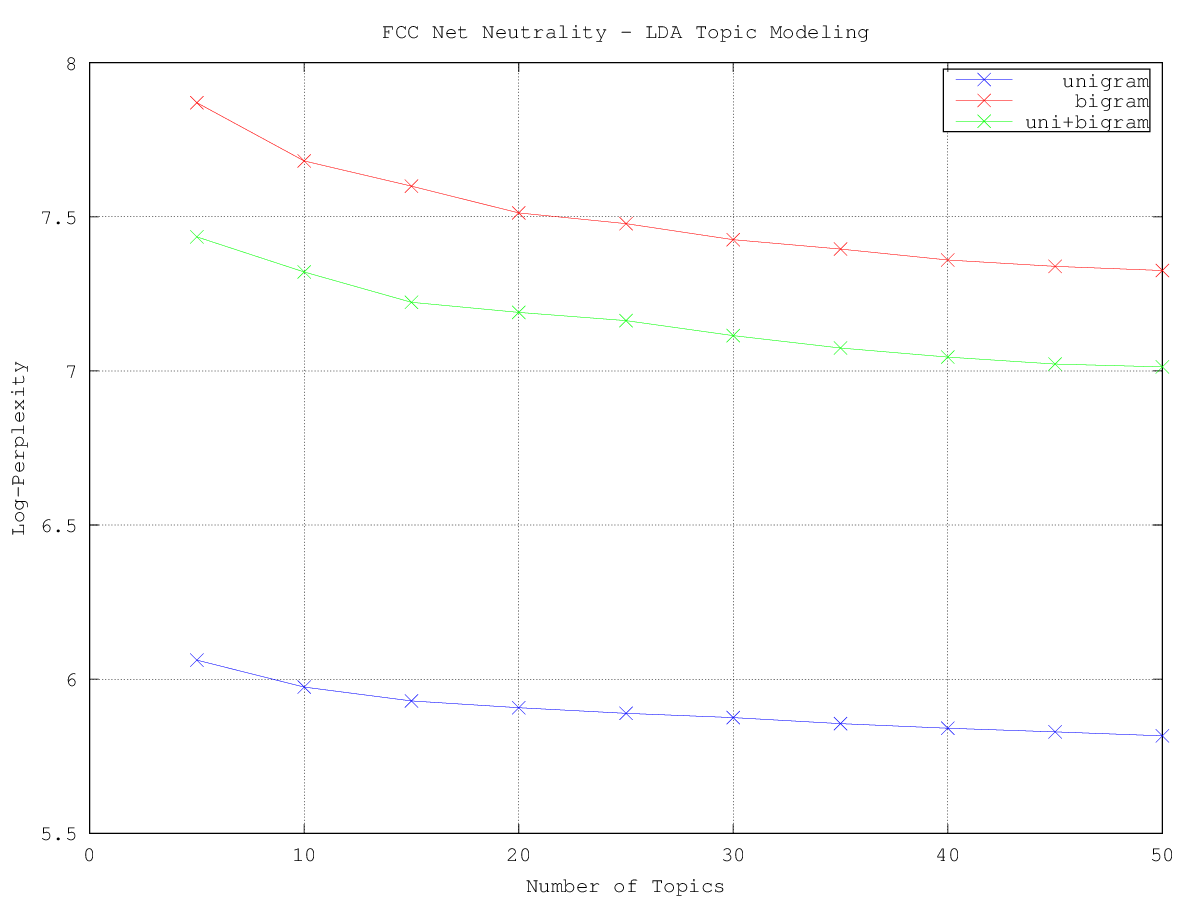
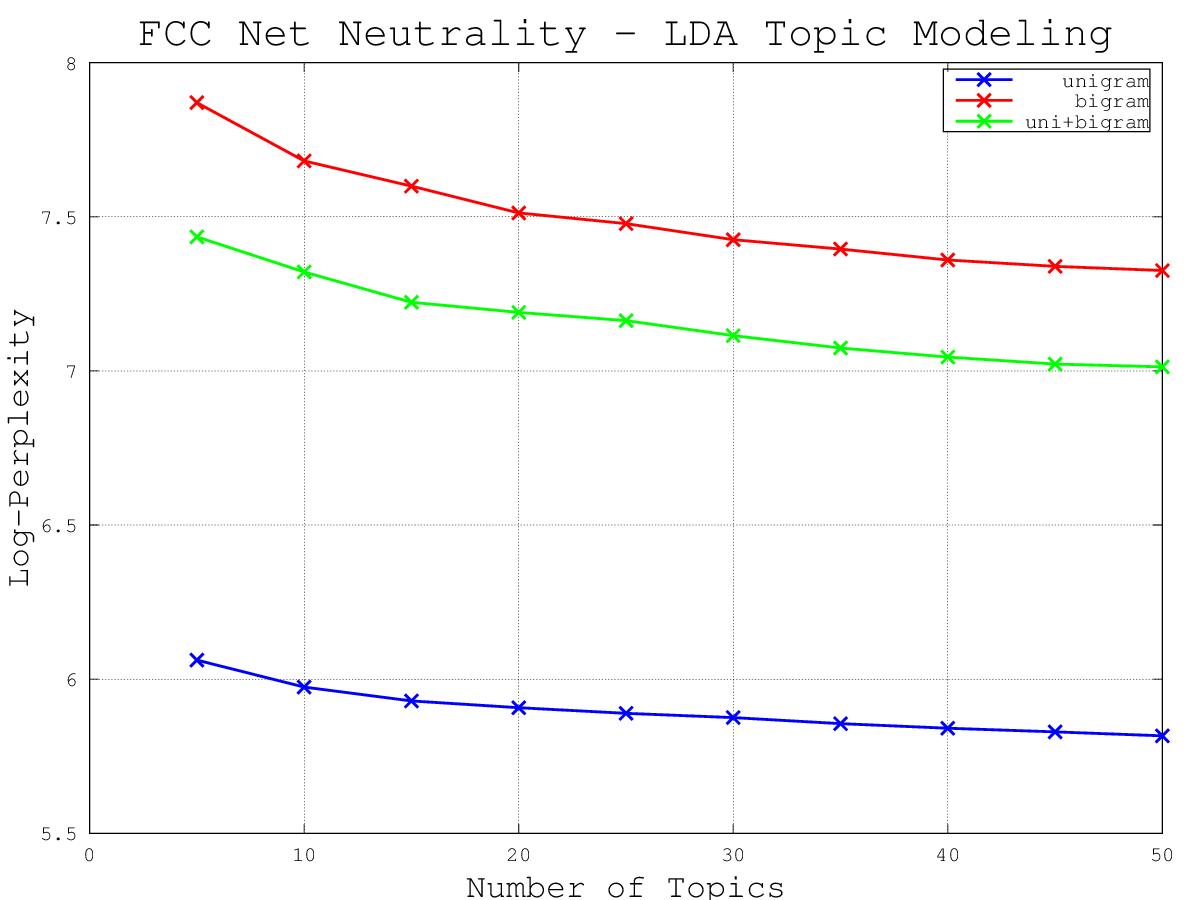
adjust font size

diff --git a/viz/plot_topic_dist.m b/viz/plot_topic_dist.m
@@ -9,13 +9,13 @@ full_data = DATA(:,4);
 
 % plot
 figure; hold on; 
-% plot(topic, train_data, 'bx-');
-plot(topic, infer_data, 'rx-');
-% plot(topic, full_data, 'gx-');
+% plot(topic, train_data, 'bx-', 'linewidth', 5);
+plot(topic, infer_data, 'rx-', 'linewidth', 5);
+% plot(topic, full_data, 'gx-', 'linewidth', 5);
 grid on;
-xlabel('Topic-Id');
-ylabel('Probability');
-title('FCC Net Neutrality - LDA Topic Dist.');
+xlabel('Topic-Id', 'Fontsize', 16);
+ylabel('Probability', 'Fontsize', 16);
+title('FCC Net Neutrality - LDA Topic Dist.', 'Fontsize', 20);
 % legend('train-data (80%)','infer-data (20%)', 'full-data');
 legend('infer-data (20%)');
 

diff --git a/viz/plot_pplx_ngram.m b/viz/plot_pplx_ngram.m
@@ -9,13 +9,13 @@ unibigram = log(DATA(:,4));
 
 % plot
 figure; hold on; 
-plot(numTopic, unigram, 'bx-');
-plot(numTopic, bigram, 'rx-');
-plot(numTopic, unibigram, 'gx-');
+plot(numTopic, unigram, 'bx-', 'linewidth', 5);
+plot(numTopic, bigram, 'rx-', 'linewidth', 5);
+plot(numTopic, unibigram, 'gx-', 'linewidth', 5);
 grid on;
-xlabel('Number of Topics');
-ylabel('Log-Perplexity');
-title('FCC Net Neutrality - LDA Topic Modeling');
+xlabel('Number of Topics', 'Fontsize', 16);
+ylabel('Log-Perplexity', 'Fontsize', 16);
+title('FCC Net Neutrality - LDA Topic Modeling', 'Fontsize', 20);
 legend('unigram','bigram', 'uni+bigram');
 
 % print

diff --git a/viz/primary_topic_hist.m b/viz/primary_topic_hist.m
@@ -8,9 +8,9 @@ doc_counts = DATA(:,2);
 % plot
 bar(topics, doc_counts, 'FaceColor', [0,0.7,0.7]);
 grid on;
-xlabel('Topic-Id');
-ylabel('Number-of-Documents');
-title('FCC Net Neutrality - LDA Primary Topic Hist.');
+xlabel('Topic-Id', 'Fontsize', 16);
+ylabel('Number-of-Documents', 'Fontsize', 16);
+title('FCC Net Neutrality - LDA Primary Topic Hist.', 'Fontsize', 20);
 set(gca,'XLim',[1 length(topics)+1])
 
 % print
